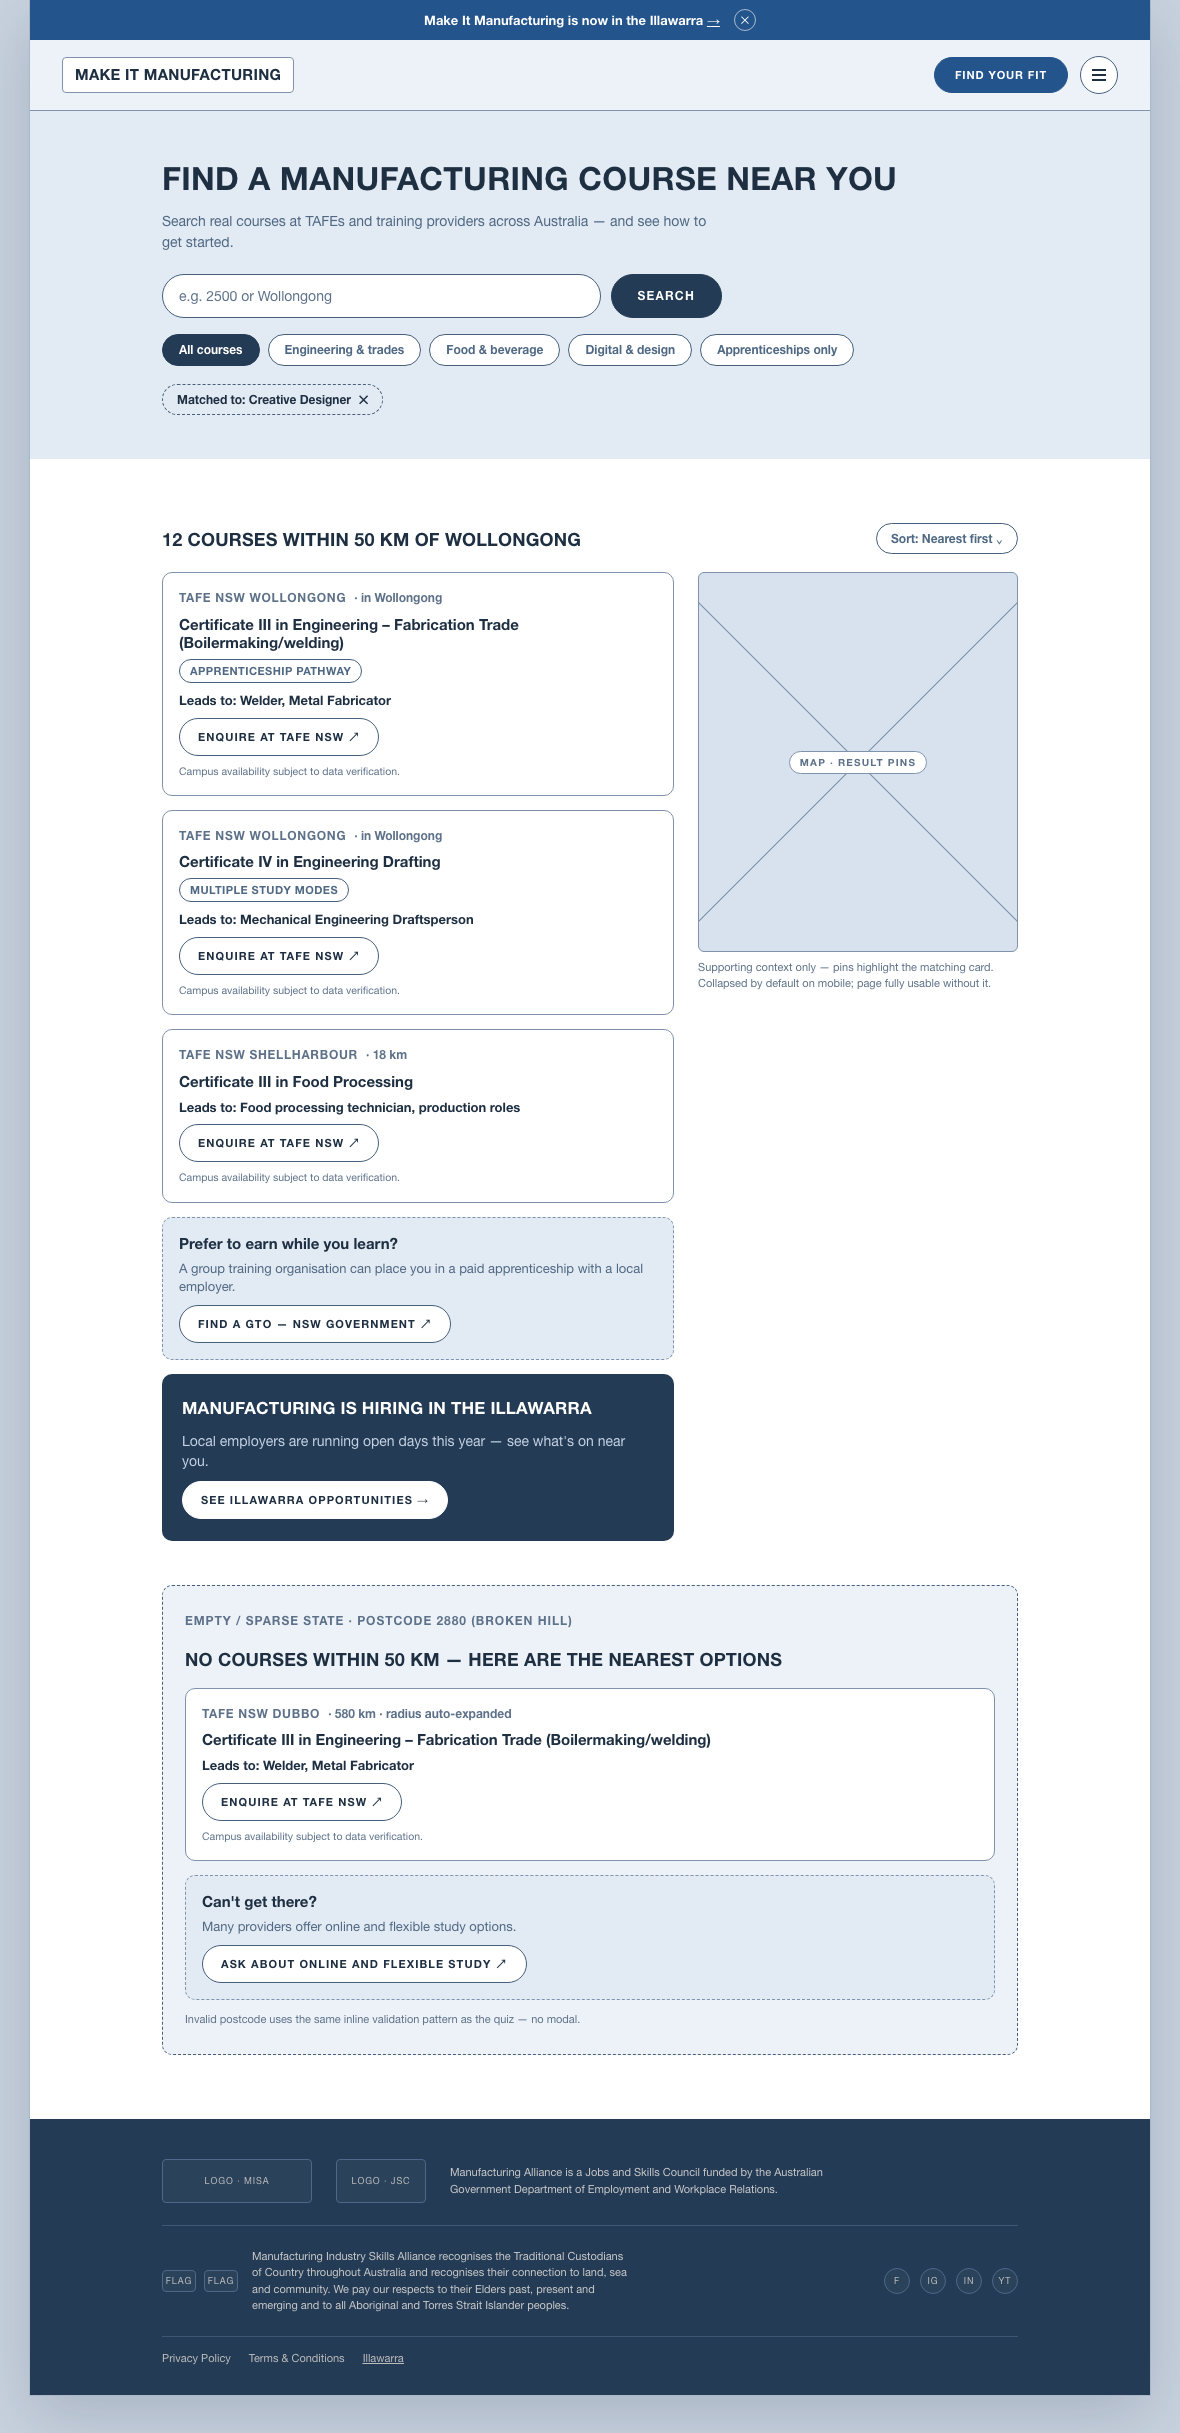
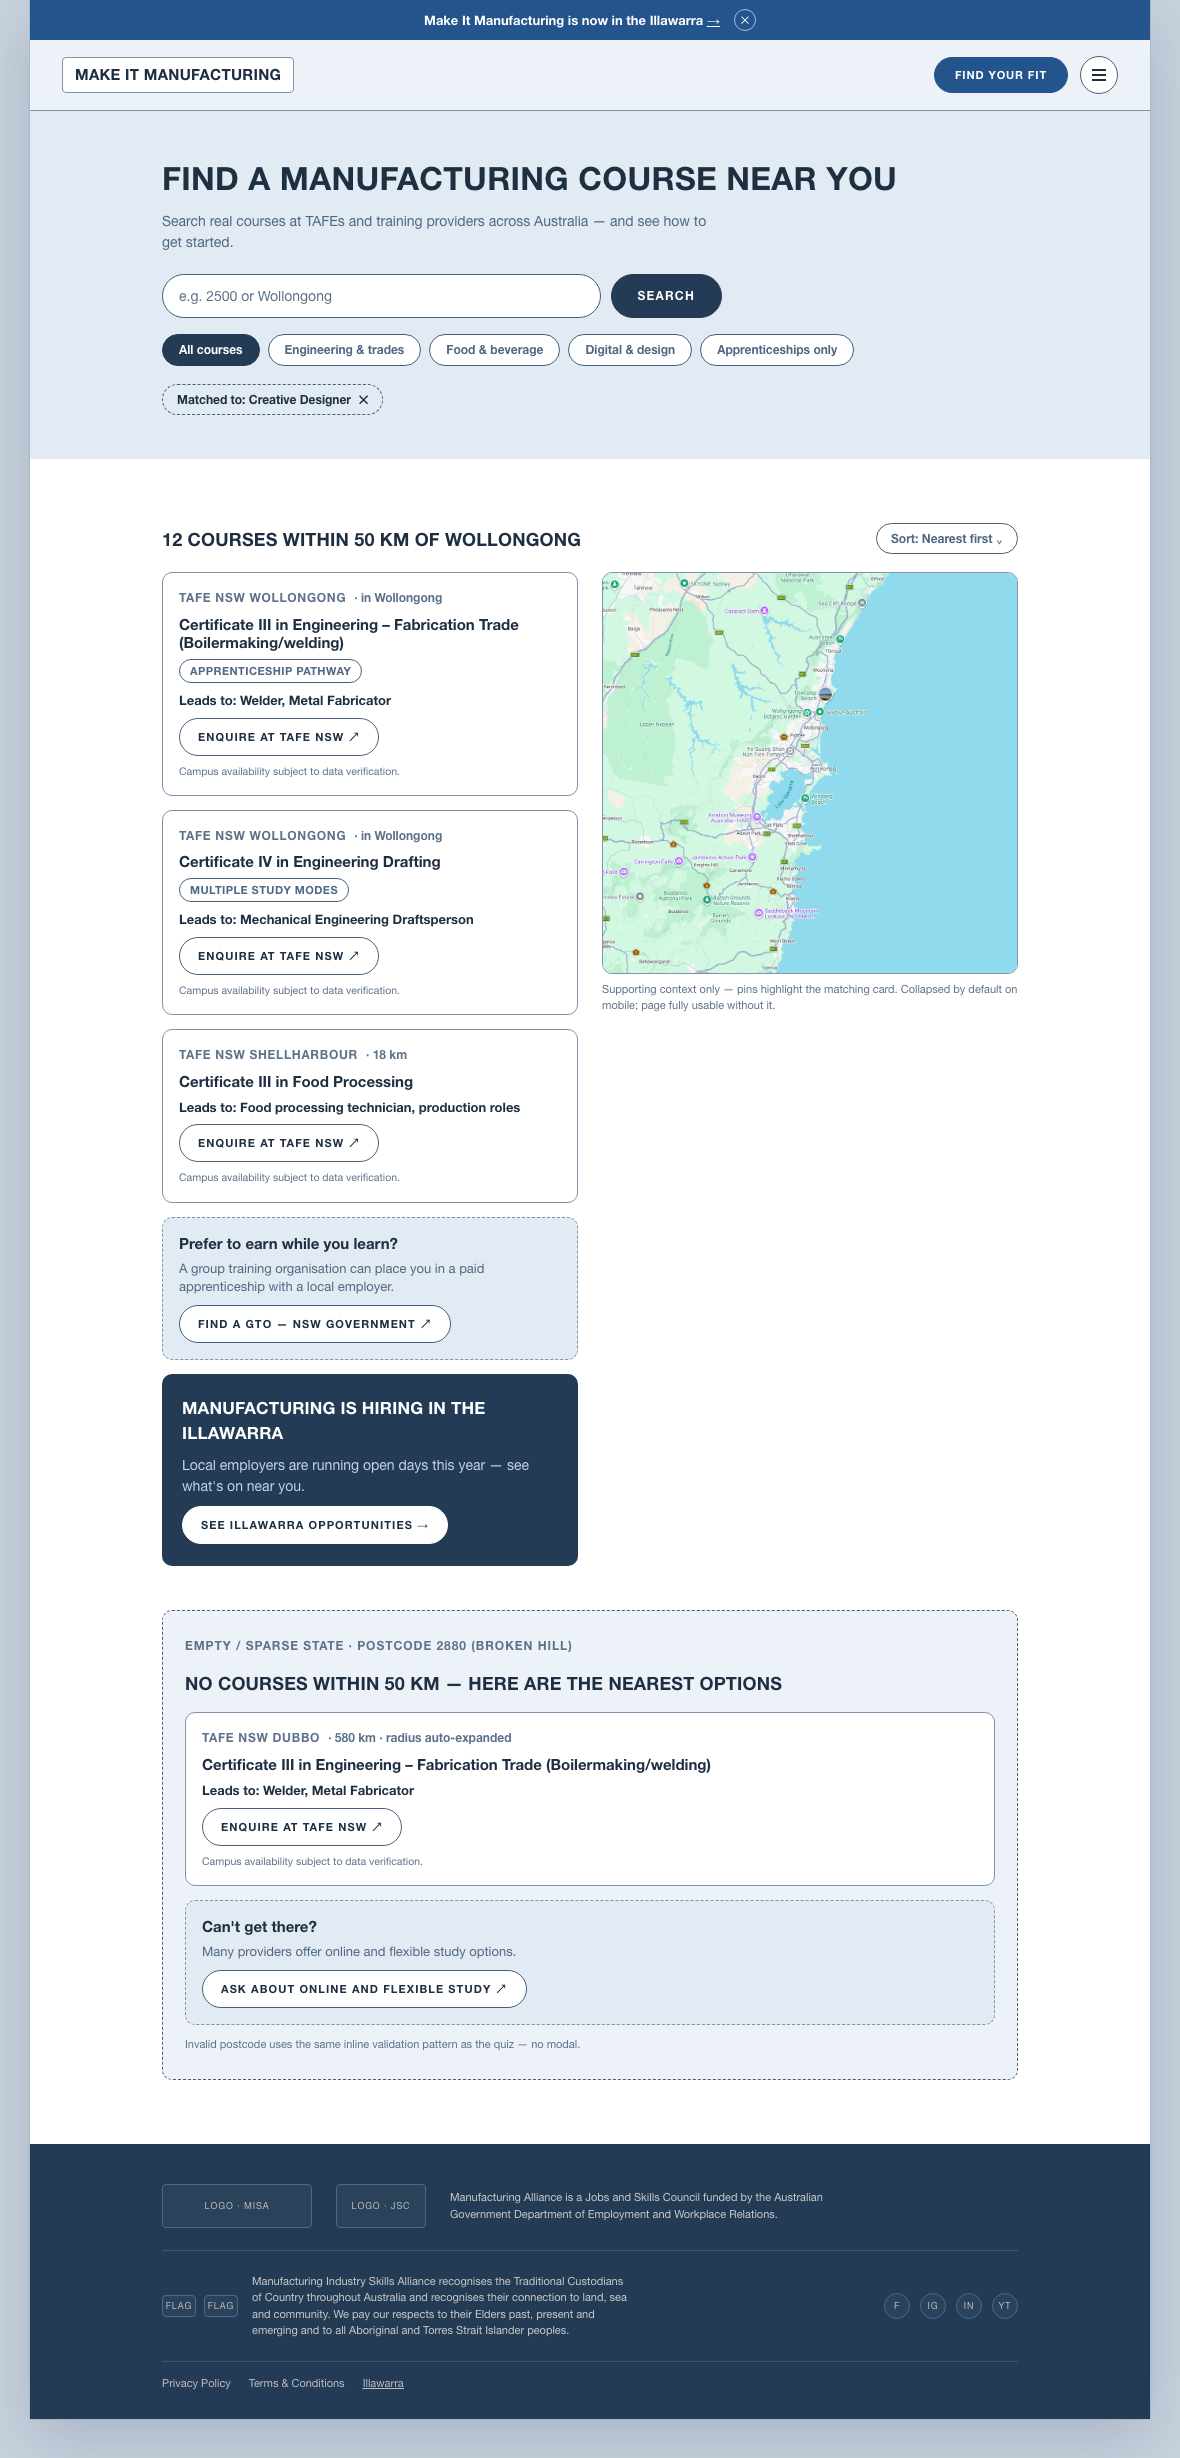
Course finder: equal-width results/map columns; real map image (map.png); refresh export

diff --git a/wireframes/course-finder.html b/wireframes/course-finder.html
@@ -26,13 +26,12 @@
   .results-head{display:flex;justify-content:space-between;align-items:center;gap:16px;flex-wrap:wrap;margin:30px 0 18px;}
   .results-head h2{font-size:18px;}
   .sort{font-size:12px;font-weight:700;color:var(--g80);border:1.5px solid var(--line-strong);border-radius:18px;background:#fff;padding:6px 14px;}
-  .results-grid{display:grid;grid-template-columns:1fr 320px;gap:24px;align-items:start;}
+  .results-grid{display:grid;grid-template-columns:1fr 1fr;gap:24px;align-items:start;}
   .results-list{display:flex;flex-direction:column;gap:14px;}
   .course-card .leads{font-size:13px;font-weight:700;color:var(--ink);}
   .course-card .row{display:flex;gap:8px;align-items:center;flex-wrap:wrap;}
   .course-card .dist{font-size:12px;font-weight:800;color:var(--muted);}
   .map-panel{position:sticky;top:16px;}
-  .map-panel .placeholder{height:380px;}
   .map-note{font-size:11px;color:var(--muted);margin-top:8px;}
 
   /* empty state */
@@ -44,7 +43,6 @@
   @media(max-width:820px){
     .results-grid{grid-template-columns:1fr;}
     .map-panel{position:static;}
-    .map-panel .placeholder{height:180px;}
   }
 </style>
 </head>
@@ -152,7 +150,7 @@
             </div>
           </div>
           <div class="map-panel">
-            <div class="placeholder"><span class="tag">Map · result pins</span></div>
+            <img src="map.png" alt="Map of course results around Wollongong with result pins" style="width:100%;display:block;border:1.5px solid var(--line);border-radius:10px;">
             <p class="map-note">Supporting context only — pins highlight the matching card. Collapsed by default on mobile; page fully usable without it.</p>
           </div>
         </div>